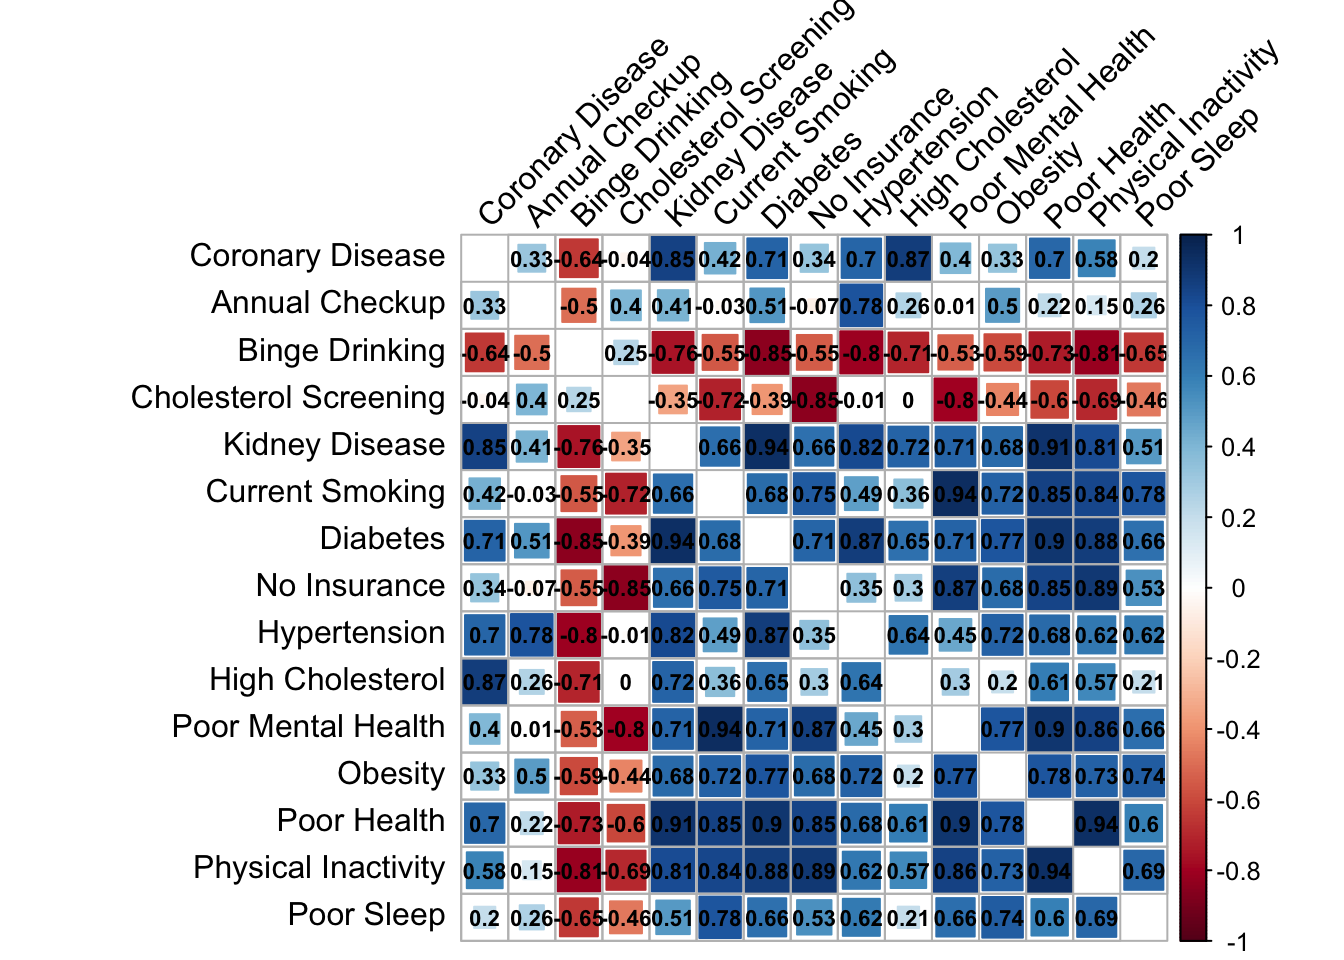
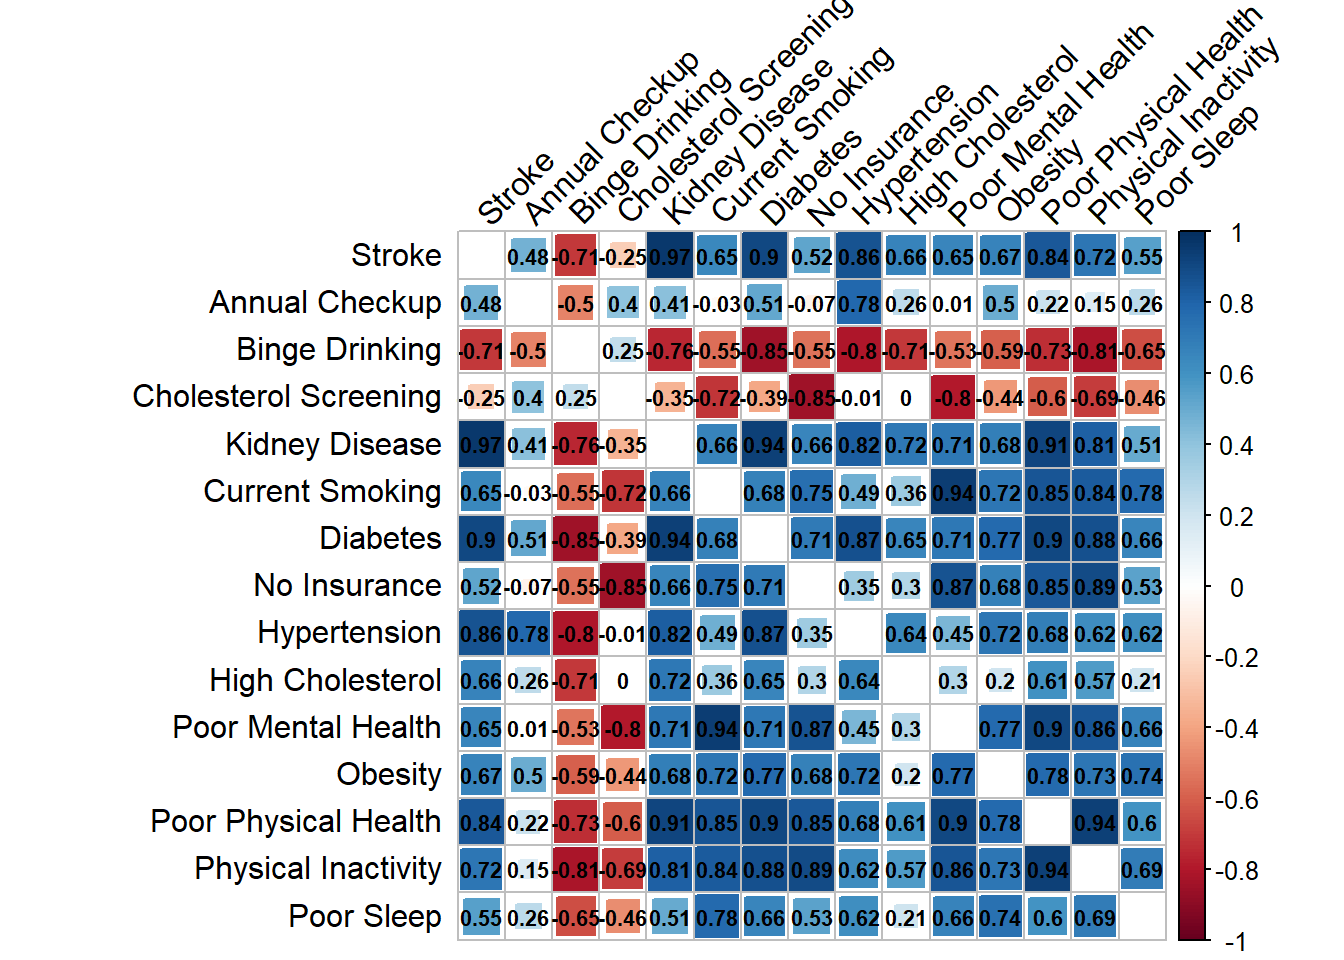
add check package and debug final report

Changed region(s): [[0.0938, 0.0, 0.9688, 1.0]]

diff --git a/final_project_report.html b/final_project_report.html
@@ -11,6 +11,7 @@
 
 <meta name="author" content="Annie, Margaret, Jiyue &amp; Aakriti" />
 
+<meta name="date" content="2018-12-06" />
 
 <title>The Heart Project</title>
 
@@ -403,9 +404,10 @@ div.tocify {
 <div id="data" class="section level1">
 <h1>Data</h1>
 <p>In order to address the first two questions, we utilized the <a href="https://catalog.data.gov/dataset/500-cities-local-data-for-better-health-b32fd">500 Cities: Local Data for Better Health</a> dataset. The 500 Cities project is a collaboration between CDC, the Robert Wood Johnson Foundation, and the CDC Foundation. The purpose of the 500 Cities Project is to provide city- and census tract-level small area estimates for chronic disease risk factors, health outcomes, and clinical preventive service use for the largest 500 cities in the United States. These small area estimates will allow cities and local health departments to better understand the burden and geographic distribution of health-related variables in their jurisdictions, and assist them in planning public health interventions. Since we were interested in visualizing these data only for New York city, we filtered the dataset to include data only from New York city.</p>
+<p>The data can also be downloaded on <a href="https://drive.google.com/drive/folders/1U_8orguSxdIiNpxj_6sx8rav6ubqmmrq">Google Drive</a></p>
 <p>Risk factors that we’re interested in:: (15 total)</p>
 <ul>
-<li>ACCESS2: Current lack of health insurance among adults aged 18&lt;89&gt;<db><d2>64 Years</li>
+<li>ACCESS2: Current lack of health insurance among adults aged 18-64 Years</li>
 <li>BINGE: Binge drinking among adults aged &gt;=18 Year</li>
 <li>BPHIGH: High blood pressure among adults aged &gt;=18 Year</li>
 <li>BPMED: Taking medicine for high blood pressure control among adults aged &gt;=18 Years with high blood pressure</li>
@@ -491,11 +493,8 @@ nyc_stroke = nyc_cvrisk %&gt;%
 
 nyc_cvrisk_joined = left_join(nyc_cvrisk_limited, nyc_cad, by = &quot;unique_id&quot;)
 nyc_cvrisk_joined_stroke = left_join(nyc_cvrisk_limited, nyc_stroke, by = &quot;unique_id&quot;)</code></pre>
-<p>We then installed the package required for animation</p>
-<pre class="r"><code>devtools::install_github(&#39;thomasp85/gganimate&#39;)</code></pre>
-<p>We then created an animated scatterplot with Coronary Heart Disease prevalence on the X-axis and different risk factors on the Y-axis</p>
+<p>We then created an animated scatterplot using <code>gganimate</code> with Coronary Heart Disease prevalence on the X-axis and different risk factors on the Y-axis</p>
 <pre class="r"><code>theme_set(theme_bw())  # pre-set the bw theme.
-
 
 ## using transition_length and state_length
 library(ggplot2)
@@ -523,7 +522,7 @@ p = nyc_cvrisk_joined %&gt;%
   exit_fade()
 
 animate(p, fps = 2, height = 600, width = 1000)</code></pre>
-<p><img src="final_project_report_files/figure-html/unnamed-chunk-6-1.gif" /><!-- --></p>
+<p><img src="final_project_report_files/figure-html/unnamed-chunk-5-1.gif" /><!-- --></p>
 </div>
 <div id="making-the-animated-scatterplot-for-stroke" class="section level3">
 <h3>Making the animated scatterplot for stroke</h3>
@@ -552,7 +551,7 @@ pp = nyc_cvrisk_joined_stroke %&gt;%
   exit_fade()
 
 animate(pp, fps = 2, height = 600, width = 1000)</code></pre>
-<p><img src="final_project_report_files/figure-html/unnamed-chunk-7-1.gif" /><!-- --></p>
+<p><img src="final_project_report_files/figure-html/unnamed-chunk-6-1.gif" /><!-- --></p>
 </div>
 <div id="making-the-correlation-plot-for-coronary-artery-disease" class="section level3">
 <h3>Making the correlation plot for coronary artery disease</h3>
@@ -585,7 +584,7 @@ animate(pp, fps = 2, height = 600, width = 1000)</code></pre>
   corrplot(method = &quot;square&quot;, addCoef.col = &quot;black&quot;, tl.col=&quot;black&quot;, tl.srt=45, insig = &quot;blank&quot;, 
          # hide correlation coefficient on the principal diagonal
          diag=FALSE, number.cex = .7)</code></pre>
-<p><img src="final_project_report_files/figure-html/unnamed-chunk-9-1.png" width="672" /></p>
+<p><img src="final_project_report_files/figure-html/unnamed-chunk-8-1.png" width="672" /></p>
 </div>
 <div id="making-the-correlation-plot-for-stroke" class="section level3">
 <h3>Making the correlation plot for stroke</h3>
@@ -613,7 +612,7 @@ animate(pp, fps = 2, height = 600, width = 1000)</code></pre>
   corrplot(method = &quot;square&quot;, addCoef.col = &quot;black&quot;, tl.col=&quot;black&quot;, tl.srt=45, insig = &quot;blank&quot;, 
          # hide correlation coefficient on the principal diagonal
          diag=FALSE, number.cex = .7)</code></pre>
-<p><img src="final_project_report_files/figure-html/unnamed-chunk-10-1.png" width="672" /></p>
+<p><img src="final_project_report_files/figure-html/unnamed-chunk-9-1.png" width="672" /></p>
 </div>
 </div>
 <div id="findings" class="section level1">
